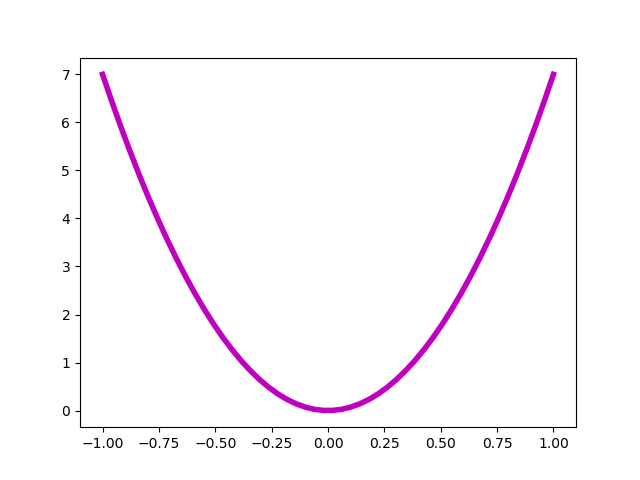
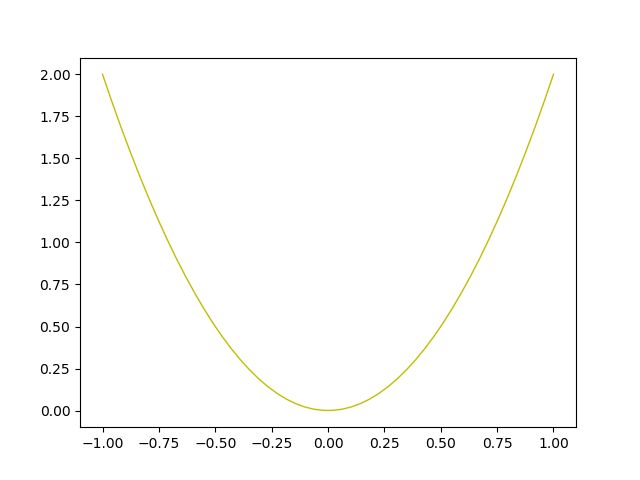
first commit

diff --git a/example.py b/example.py
@@ -2,7 +2,7 @@ import matplotlib.pyplot as plt
 import numpy as np
 
 x = np.linspace(-1, 1, 50)
-y = 7*x*x
+y = 2*x*x
 
-plt.plot(x, y,'m-',linewidth=4)
+plt.plot(x, y,'y-',linewidth=1)
 plt.savefig('chart.png')

diff --git a/README.md b/README.md
@@ -1,4 +1,4 @@
-# Quadratic Line Chart Karen 
+# Quadratic Line Chart Nellie 
 
 Example for my book (matplotlib, python)
 
